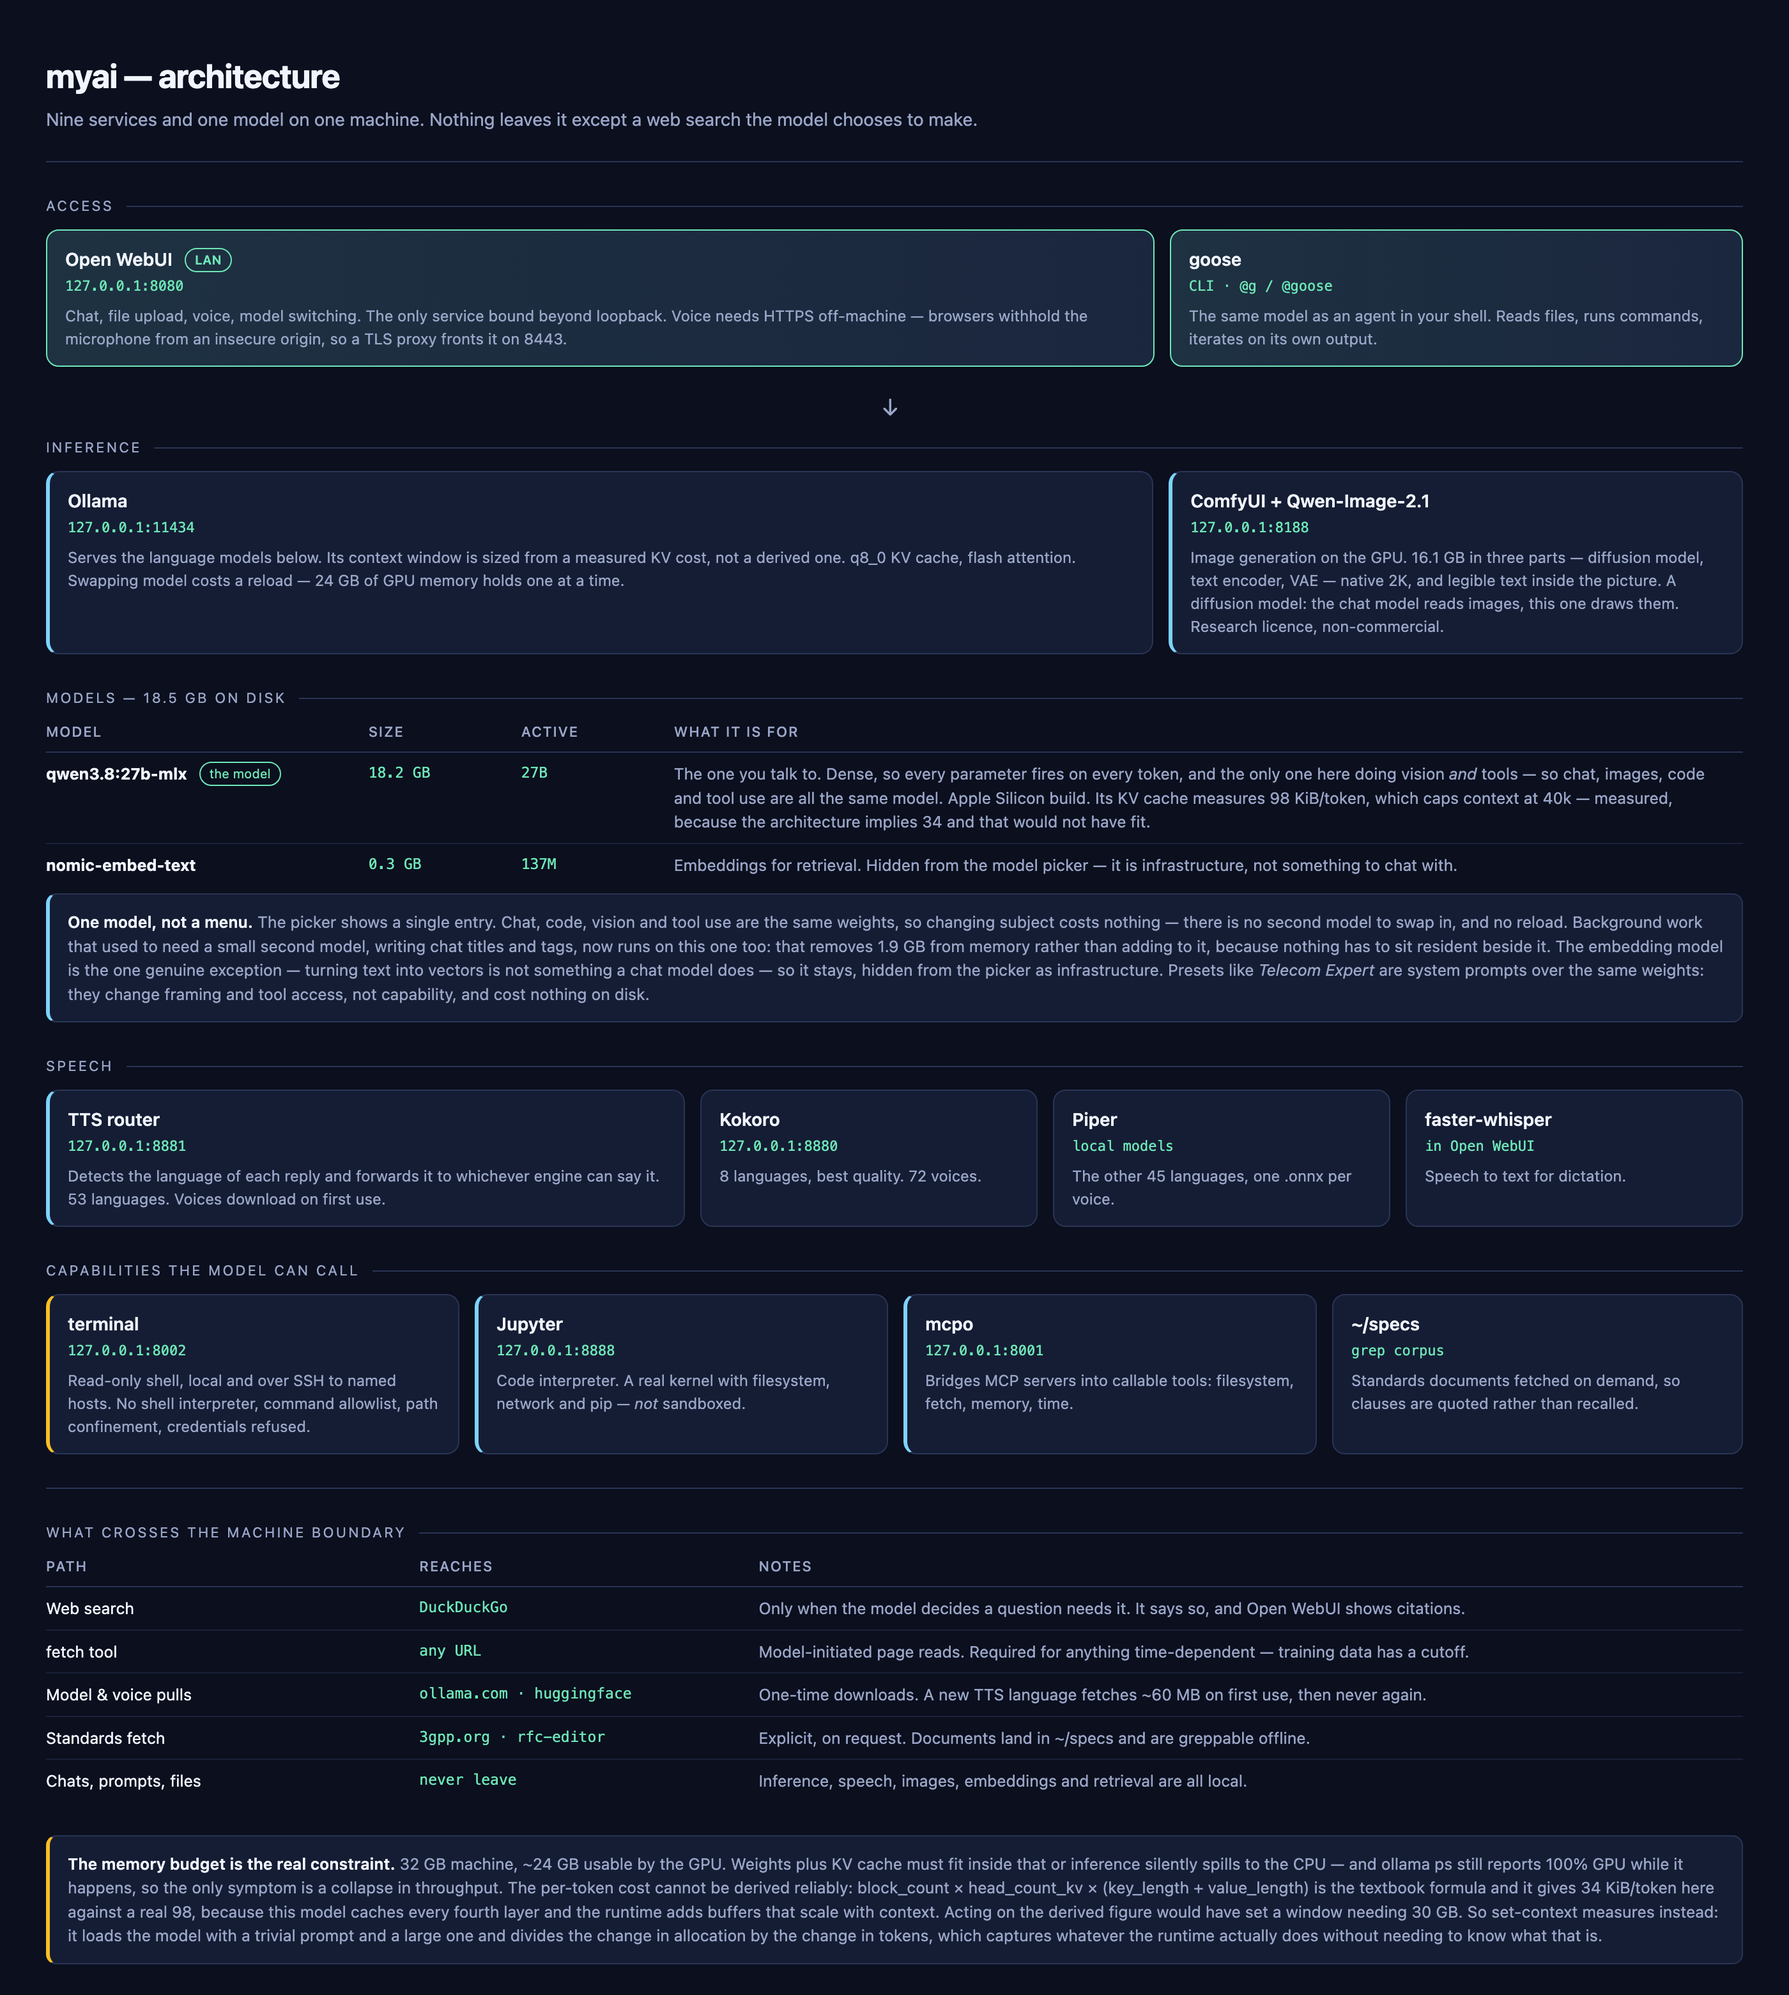
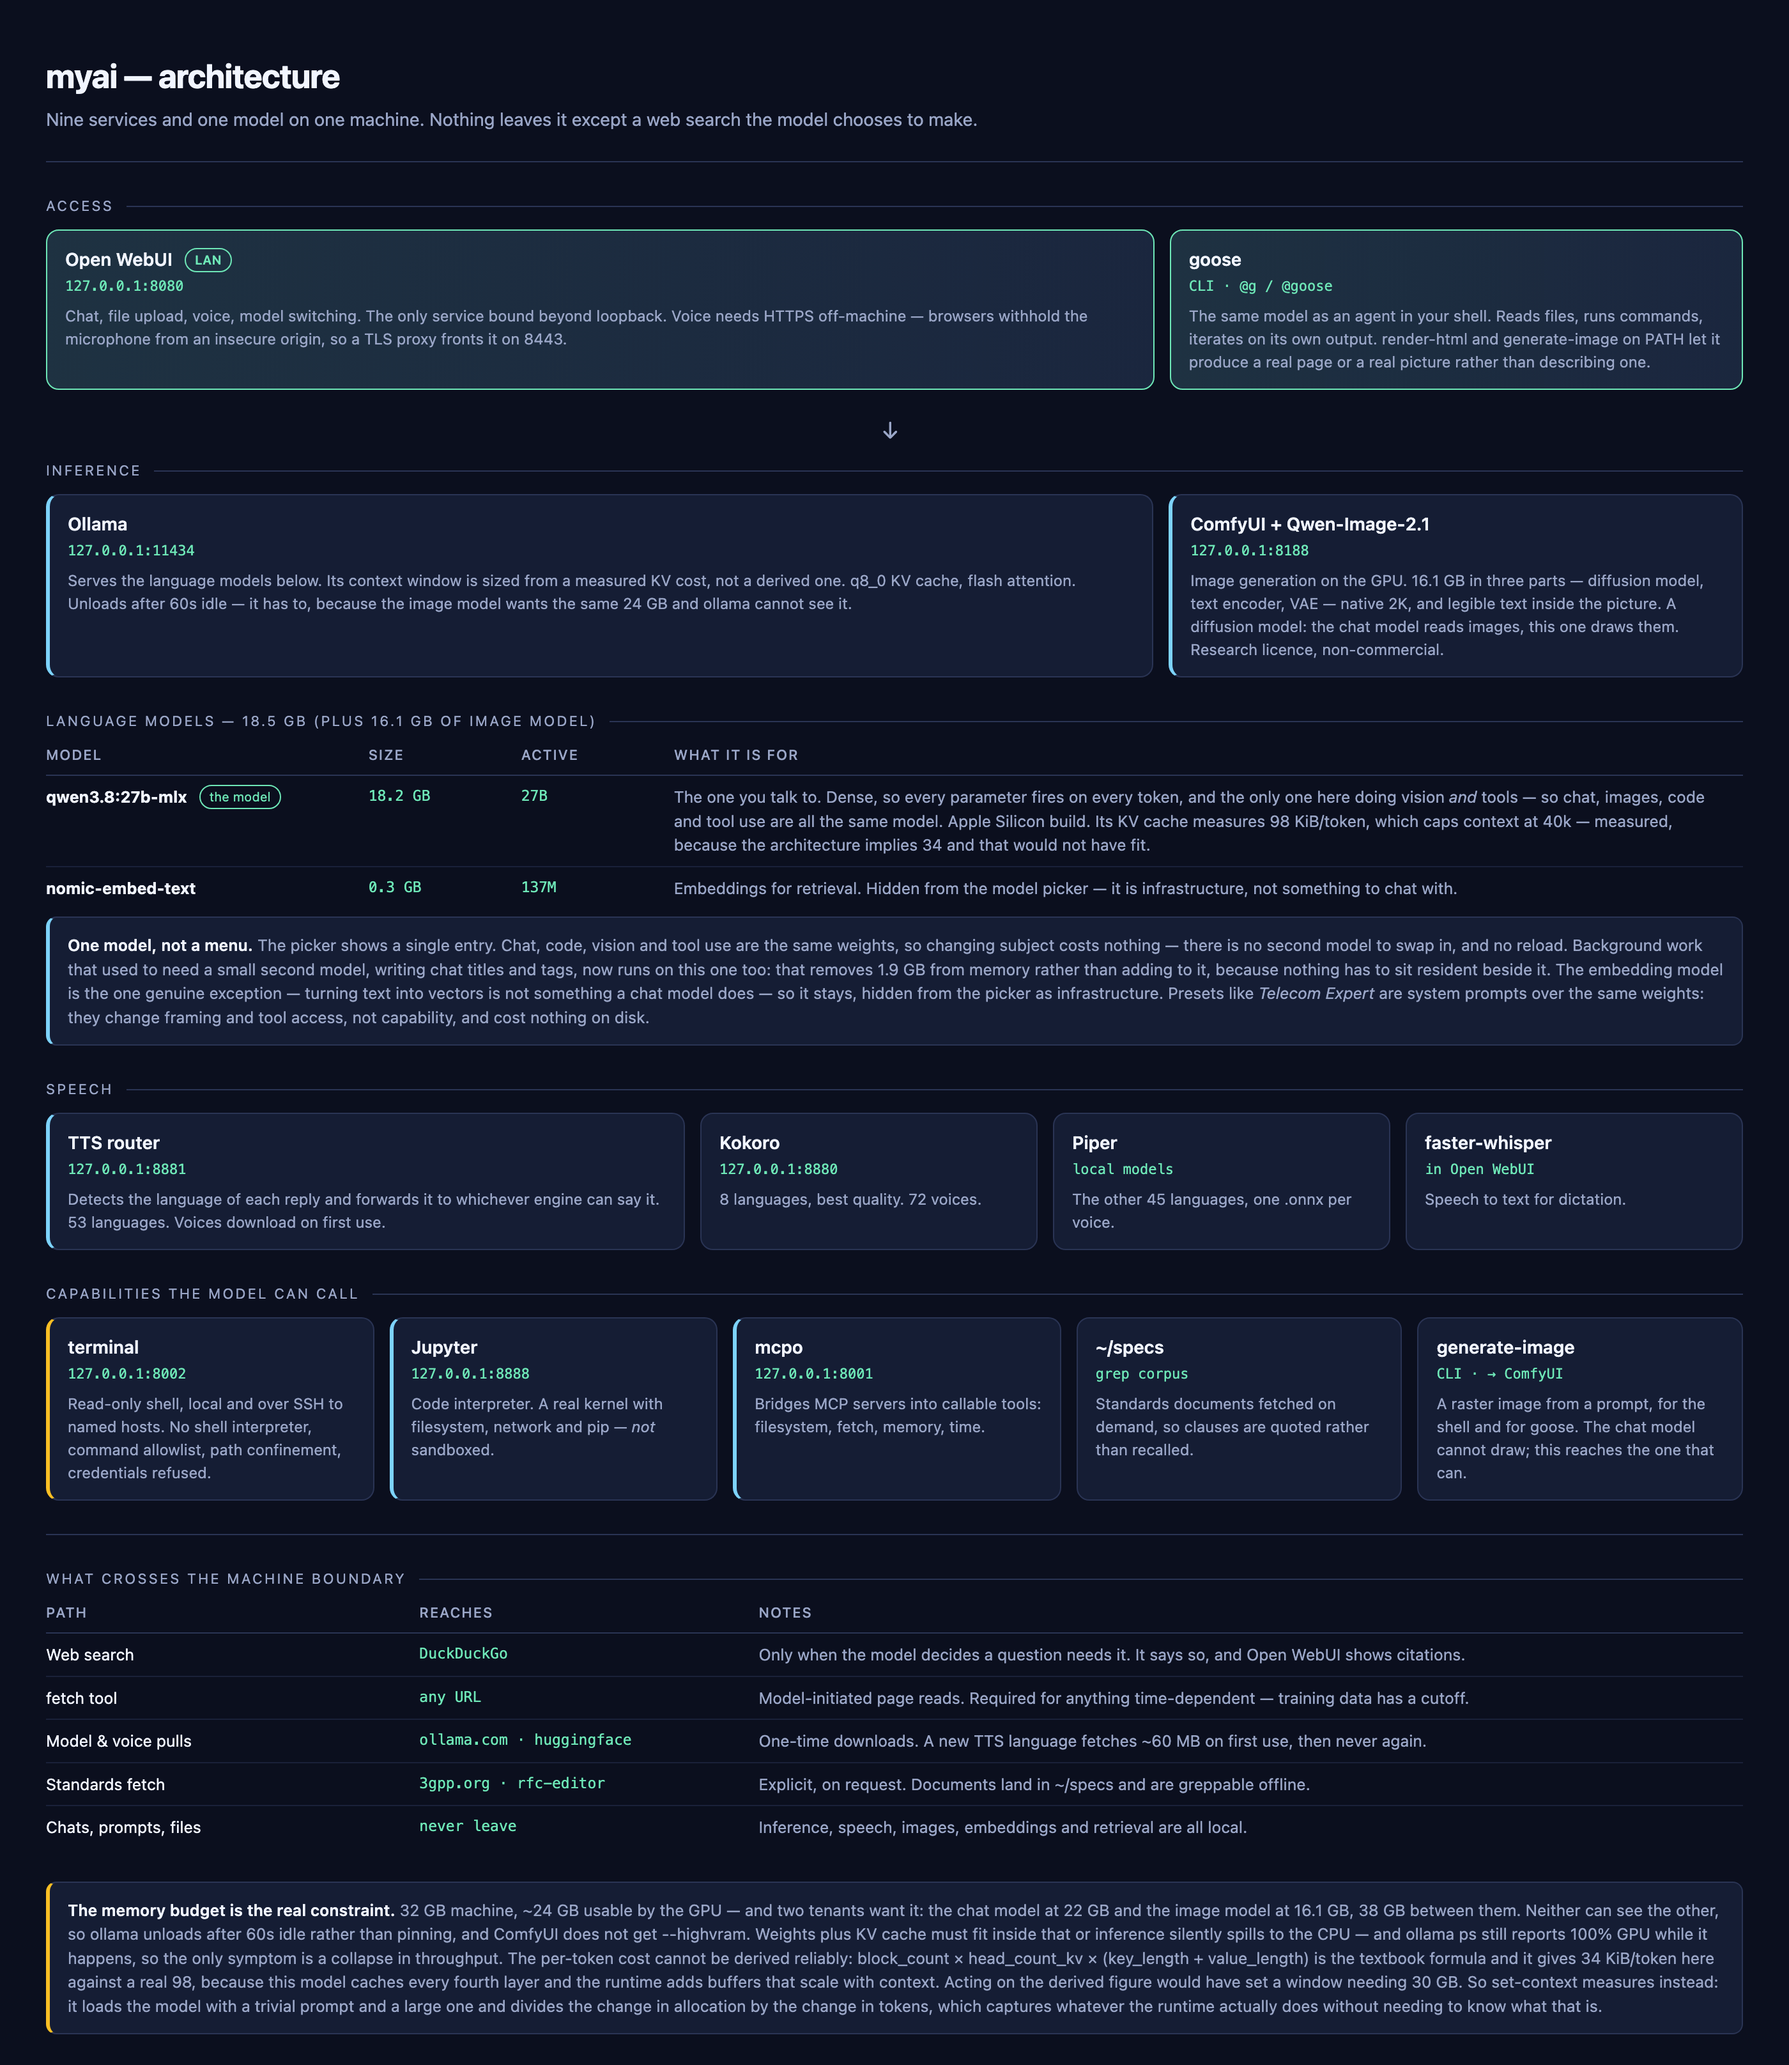
Let ollama yield, because the image model needs the same 24 GB
OLLAMA_KEEP_ALIVE goes back to 60s from -1. Pinning the chat model was
defensible when the image model was SDXL at 6.5 GB; replacing it with
Qwen-Image-2.1 changed the arithmetic and I did not re-check it at the
time. The chat model holds ~22 GB and the image model loads 16.1 GB
across three files: 38 GB against a ~24 GB budget, and ollama has no idea
ComfyUI exists, so it will never yield on its own.

A timeout makes the machine arbitrate instead of the operator. The other
choice is to pin and run 'myai unload' before every single image, which
is a step you have to remember every time. Pinning stays available as
MYAI_KEEP_ALIVE=-1 and 'myai doctor' now flags the combination.

That check previously only knew about ComfyUI's --highvram, which was
yesterday's conflict and is no longer the binding one -- it would have
passed this 38 GB case silently. It now measures what is actually in the
image model directories and reports against the pin.

Diagrams and docs follow the same change: the Ollama card no longer says
memory holds one model "at a time" with no mention of the timeout, the
memory note names both tenants and the 38 GB total, the model heading no
longer counts only half the weights on disk, and generate-image appears
as a capability and on the goose card.

diff --git a/docs/architecture.html b/docs/architecture.html
@@ -85,7 +85,7 @@
     <div class="card entry">
       <div class="name">goose</div>
       <div class="port">CLI · @g / @goose</div>
-      <div class="desc">The same model as an agent in your shell. Reads files, runs commands, iterates on its own output.</div>
+      <div class="desc">The same model as an agent in your shell. Reads files, runs commands, iterates on its own output. <span class="mono">render-html</span> and <span class="mono">generate-image</span> on PATH let it produce a real page or a real picture rather than describing one.</div>
     </div>
   </div>
 </div>
@@ -98,7 +98,7 @@
     <div class="card engine wide">
       <div class="name">Ollama</div>
       <div class="port">127.0.0.1:11434</div>
-      <div class="desc">Serves the language models below. Its context window is sized from a measured KV cost, not a derived one. q8_0 KV cache, flash attention. Swapping model costs a reload — 24&nbsp;GB of GPU memory holds one at a time.</div>
+      <div class="desc">Serves the language models below. Its context window is sized from a measured KV cost, not a derived one. q8_0 KV cache, flash attention. Unloads after 60s idle — it has to, because the image model wants the same 24&nbsp;GB and ollama cannot see it.</div>
     </div>
     <div class="card engine">
       <div class="name">ComfyUI + Qwen-Image-2.1</div>
@@ -109,7 +109,7 @@
 </div>
 
 <div class="band">
-  <div class="band-label">Models — 18.5&nbsp;GB on disk</div>
+  <div class="band-label">Language models — 18.5&nbsp;GB (plus 16.1&nbsp;GB of image model)</div>
   <table>
     <tr>
       <th style="width:19%">Model</th><th style="width:9%">Size</th>
@@ -188,6 +188,11 @@
       <div class="port">grep corpus</div>
       <div class="desc">Standards documents fetched on demand, so clauses are quoted rather than recalled.</div>
     </div>
+    <div class="card">
+      <div class="name">generate-image</div>
+      <div class="port">CLI · → ComfyUI</div>
+      <div class="desc">A raster image from a prompt, for the shell and for goose. The chat model cannot draw; this reaches the one that can.</div>
+    </div>
   </div>
 </div>
 
@@ -222,7 +227,9 @@
 
 <div class="note">
   <b>The memory budget is the real constraint.</b> 32&nbsp;GB machine, ~24&nbsp;GB usable by the
-  GPU. Weights plus KV cache must fit inside that or inference silently spills to the CPU — and
+  GPU — and two tenants want it: the chat model at 22&nbsp;GB and the image model at
+  16.1&nbsp;GB, 38&nbsp;GB between them. Neither can see the other, so ollama unloads after
+  60s idle rather than pinning, and ComfyUI does not get <span class="mono">--highvram</span>. Weights plus KV cache must fit inside that or inference silently spills to the CPU — and
   <span class="mono">ollama ps</span> still reports 100% GPU while it happens, so the only
   symptom is a collapse in throughput. The per-token cost cannot be derived reliably:
   <span class="mono">block_count × head_count_kv × (key_length + value_length)</span> is the

diff --git a/docs/infographic.html b/docs/infographic.html
@@ -120,8 +120,9 @@
         <td class="d">What 98 KiB/token buys once the weights are in. Acting on the derived
           figure would have set a window needing 30 GB on a 24 GB budget.</td></tr>
     <tr><td>GPU ceiling</td><td class="m">~24 GB</td>
-        <td class="d">Of 32 GB unified memory. Exceed it and inference spills to the CPU while
-          still reporting 100% GPU — throughput collapses with no error.</td></tr>
+        <td class="d">Of 32 GB unified memory. The chat model wants 22 GB and the image model
+          16.1 — so they take turns rather than sharing. Exceed it and inference spills to the
+          CPU while still reporting 100% GPU, and throughput collapses with no error.</td></tr>
     <tr><td>Services</td><td class="m">9</td>
         <td class="d">All on loopback except the web interface and its HTTPS front door.</td></tr>
   </table>

diff --git a/README.md b/README.md
@@ -453,21 +453,26 @@ memory at all, because there is nothing to hold resident beside the model you ar
 
 ### Model unload timeout
 
-Ollama unloads a model **5 minutes** after use by default. `myai` sets `-1` instead, which
-keeps it resident until something asks it to leave.
+Ollama unloads a model **5 minutes** after use by default. `myai` sets **60s**.
 
-That is the right default *because this script owns the lifecycle*: `myai stop` unloads it,
-so nothing stays in memory that a deliberate command did not ask for, and you never pay the
-20-second reload of an 18 GB model just because you paused to read something. The cost is
-that ~22 GB stays wired while the stack is up — see
-[ComfyUI and the memory budget](#comfyui-and-the-memory-budget), and use `myai unload` to
-release it without stopping anything.
+The reason is that two tenants want the same memory and only one can be pinned. The chat
+model holds ~22 GB — 16.9 GB of weights plus 3.8 GB of KV cache at a 40k window — and
+Qwen-Image-2.1 loads 16.1 GB across its diffusion model, text encoder and VAE. That is 38 GB
+against a ~24 GB budget. They cannot both be resident, and **ollama has no idea ComfyUI
+exists**, so it will never yield on its own.
 
-To go back to a timeout:
+A 60s timeout makes the machine arbitrate instead of you. Ask for an image after a pause and
+the chat model has already gone; come back to chat and it reloads in about 20 seconds, which
+is the cost of a pause you were taking anyway.
+
+To pin it instead:
 
 ```bash
-MYAI_KEEP_ALIVE=60s myai restart
+MYAI_KEEP_ALIVE=-1 myai restart
 ```
+
+That is defensible when you chat far more than you generate — but then **every** image needs
+`myai unload` first, remembered every time. `myai doctor` will flag the combination.
 
 > **Why `MYAI_` and not `OLLAMA_`.** These are published with `launchctl setenv`, which puts
 > them in the environment of *every* process in the GUI session — including the next run of
@@ -478,29 +483,36 @@ MYAI_KEEP_ALIVE=60s myai restart
 > Don't put it in Homebrew's plist either — `brew services` regenerates that file from its
 > formula on every start and silently drops hand-added keys.
 
-**Linux** — set in `myai-ollama.service` as `Environment="OLLAMA_KEEP_ALIVE=-1"`.
+**Linux** — set in `myai-ollama.service` as `Environment="OLLAMA_KEEP_ALIVE=60s"`.
 Change it there and `systemctl --user daemon-reload`.
 
 ### ComfyUI and the memory budget
 
-ComfyUI has a `--highvram` flag that pins the 6.5 GB checkpoint between renders, worth
-*116s → 42s per image*. The launch agent no longer passes it, and the reason is worth
-understanding because it is the central constraint of this stack.
+This is the central constraint of the stack, so it is worth stating plainly:
 
-Both `--highvram` and `OLLAMA_KEEP_ALIVE=-1` mean *stay resident*, and neither can see the
-other. The language model holds ~22 GB — 16.9 GB of weights plus 3.8 GB of KV cache at a 40k
-window — of a ~24 GB budget. Add a pinned 6.5 GB checkpoint and you are asking for 28.5 GB
-of 24. Nothing errors; inference spills to the CPU and `ollama ps` goes on reporting
-`100% GPU` while everything slows down.
-
-So one tenant is pinned, not two. Before a batch of image work:
-
-```bash
-myai unload        # releases the 22 GB, leaves all nine services up
+```
+chat model  qwen3.8:27b-mlx     16.9 GB weights + 3.8 GB KV  =  22.0 GB
+image model Qwen-Image-2.1      6.8 + 8.7 + 0.6              =  16.1 GB
+                                                      total  =  38.1 GB
+GPU budget on a 32 GB Mac                                    =  ~24 GB
 ```
 
-The model reloads on your next message. If images rather than chat are your main workload,
-invert it: put `--highvram` back in the launch agent and set `MYAI_KEEP_ALIVE=60s`.
+Nothing errors when you exceed it. Inference spills to the CPU and `ollama ps` goes on
+reporting `100% GPU` while throughput collapses.
+
+Two consequences:
+
+- **`OLLAMA_KEEP_ALIVE` is 60s, not `-1`.** Ollama has to be willing to let go, because
+  ComfyUI cannot ask it to.
+- **ComfyUI does not get `--highvram`.** That flag pins the checkpoint between renders, worth
+  *116s → 42s* back when the image model was SDXL's 6.5 GB. At 16.1 GB it is not affordable,
+  and pinning both tenants is not a thing that fits.
+
+If you need to free the memory immediately rather than waiting out the timeout:
+
+```bash
+myai unload        # releases the model, leaves all nine services up
+```
 
 ### Text-to-speech
 
